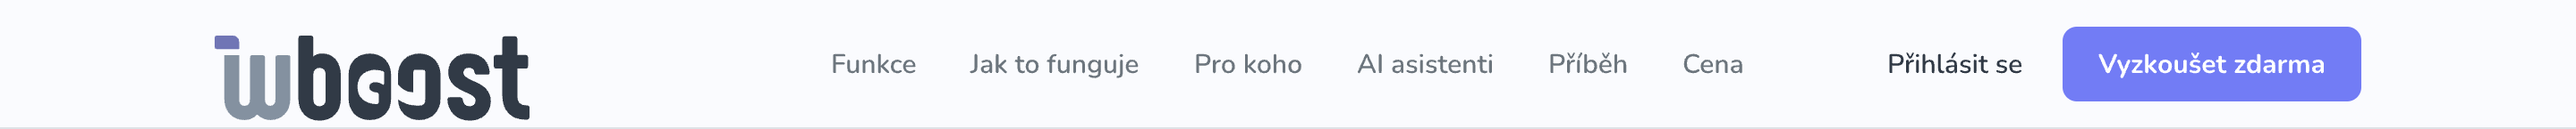
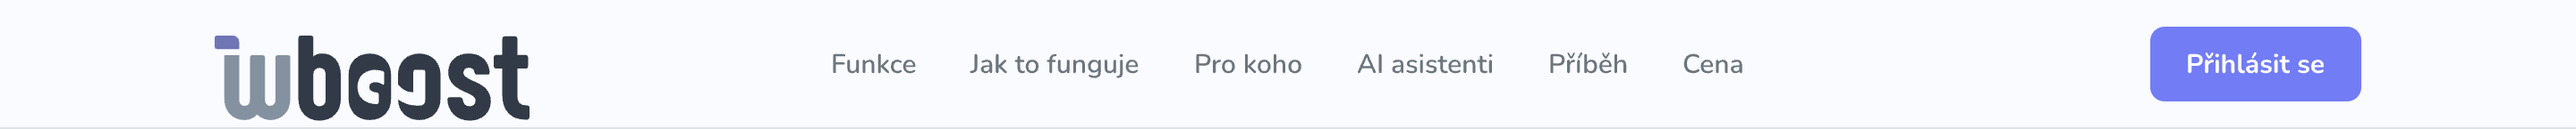
design(landing): revision round — reference section, legal pages, seven fixes
Requested after the first review:

- Header keeps only "Přihlásit se", in the primary style. The signup CTA
  still sits above the fold in the hero, so the one-CTA-per-viewport rule
  holds; two actions now share the primary style, which is the ordinary
  SaaS split and a deliberate call rather than drift.
- New Reference section (ink, between Pro koho and Příběh): three quote
  cards and a logo row, every field an explicit placeholder rather than a
  plausible fake, because the brief forbids invented testimonials. Built
  as one self-contained block and documented to ship hidden until there
  are real, approved quotes. Placing it on ink also fixed two light
  sections running back to back.
- Legal page template as a fourth and fifth artboard: nine numbered
  sections following a real Czech privacy-policy skeleton with [DOPLNIT]
  placeholders, so the founders fill prose into a structure instead of a
  blank page. Obchodní podmínky reuses the same shell.
- Timeline dropped from Příběh (it restated the copy beside it), and the
  three facts rebuilt from a caption row into a full-width stacked list
  that takes a fourth item without redesign.
- Final CTA differentiated from Cena — they read as the same section
  twice. Now centred, 78px, on the deeper ink, mostly empty: four axes of
  difference, and it delivers the brief's "almost empty around a single
  big line".
- Footer loses the dashed "Popisek" motif (inside the product it means
[…]

Changed region(s): [[0.7188, 0.1931, 0.9062, 0.8]]

diff --git a/designs/wboost-landing-notes.md b/designs/wboost-landing-notes.md
@@ -12,8 +12,10 @@ The document root holds exactly three frames, nothing else:
 | Node id | Frame | Size |
 |---|---|---|
 | `hgMNG` | **Components** | 1440 × 1600 |
-| `gCoLB` | **Desktop 1440** | 1440 × 10 960 |
-| `VZfy3` | **Mobile 390** | 390 × 15 999 |
+| `gCoLB` | **Desktop 1440** | 1440 × 11 970 |
+| `VZfy3` | **Mobile 390** | 390 × 17 255 |
+| `icEU7` | **Legal 1440** | 1440 × 2 585 |
+| `IwrPI` | **Legal 390** | 390 × 2 753 |
 
 Pencil names exported files by node id, so:
 
@@ -35,13 +37,13 @@ anything printed or zoomed.
 
 **Desktop 1440** — `u4Zjn` Nav · `n6Aw5` Hero · `zqEXF` Proof Strip · `P1Eg7` Problém ·
 `Bk0P9` Jak to funguje · `QhocG` Showcase · `bUQEv` Moduly (id `funkce`) ·
-`kMamX` AI asistenti (id `ai`) · `w6cZ86` Pro koho · `ykKvW` Příběh · `pDzy2` Cena ·
-`UrO4h` FAQ · `PvjiT` Final CTA · `Z3W59c` Footer
+`kMamX` AI asistenti (id `ai`) · `w6cZ86` Pro koho · **`JXdwa` Reference [SKRYTELNÉ]** ·
+`ykKvW` Příběh · `pDzy2` Cena · `UrO4h` FAQ · `PvjiT` Final CTA · `Z3W59c` Footer
 
 **Mobile 390** — `mIYAE` Nav · `t8tOB3` Hero · `Zxu2U` Proof · `D6XJwl` Problém ·
 `NxSDs` Jak to funguje · `L5YCyc` Showcase · `GxfFi` Moduly · `uNcik` AI ·
-`ejuJR` Pro koho · `xkdEQ` Příběh · `rnP46` Cena · `rbX7q` FAQ · `NMVqe` Final CTA ·
-`L7H4v` Footer
+`ejuJR` Pro koho · **`k0oMjU` Reference [SKRYTELNÉ]** · `xkdEQ` Příběh · `rnP46` Cena ·
+`rbX7q` FAQ · `NMVqe` Final CTA · `L7H4v` Footer
 
 ---
 
@@ -225,6 +227,58 @@ at 52 px tall (≥ 44 px touch target).
 
 ---
 
+## 6b. Revision round — 2026-09-03, after the first review
+
+Seven changes, all requested by Jan after seeing the first build:
+
+1. **Nav CTA swapped.** *Vyzkoušet zdarma* is gone from the header; **only *Přihlásit se*
+   remains, in the primary (indigo) style**. The signup CTA still sits above the fold in the
+   hero, so §7's "primary CTA visible without scrolling" still holds. It does soften §7's
+   "the primary button style is used only for *Vyzkoušet zdarma*" — two different actions now
+   share it. That is the conventional SaaS split (header serves people who already have an
+   account, hero serves people who do not) and it was a deliberate call, not an oversight.
+
+2. **New section: `Reference [SKRYTELNÉ]`** — desktop `JXdwa`, mobile `k0oMjU`, on ink,
+   between *Pro koho* and *Příběh*. Three testimonial cards plus a six-slot logo row. **Every
+   word in it is an explicit placeholder** ("Sem přijde citace klienta – dvě až tři věty…",
+   "Jméno Příjmení", "role · organizace") rather than a plausible-sounding fake quote, because
+   §6 forbids invented testimonials and logos. It is built as one self-contained section so it
+   can be commented out of the HTML until there is real content — hence the layer name.
+   Placing it on ink also fixed a rhythm problem: *Pro koho* (paper) → *Příběh* (warm paper)
+   were two light sections back to back.
+
+3. **Legal page templates** — new artboards `icEU7` (1440) and `IwrPI` (390). Nav, eyebrow,
+   52 px serif H1, a "Poslední aktualizace" line, hairline, perex, then **nine numbered
+   sections** with placeholder paragraphs and two bulleted lists, then the footer. The section
+   headings are a real Czech privacy-policy skeleton (Správce · Jaké údaje · Proč · Právní
+   základ · Jak dlouho · Komu předáváme · Cookies · Vaše práva · Kontakt), so the founders can
+   fill prose into a structure instead of starting from a blank page. *Obchodní podmínky*
+   reuses the identical shell with its own headings — one template, two pages.
+
+4. **Timeline removed from *Příběh*.** The 2023 / 2023–2026 / 2026 rows were restating the
+   copy beside them.
+
+5. **The three facts under the pull-quote were rebuilt.** They were three small columns under
+   2 px rules; they are now a **full-width stacked list** — mono index, 26 px serif statement,
+   and a supporting sentence — which reads as a manifesto rather than a caption row and takes
+   a fourth or fifth item without redesign. Each fact gained a second line of copy.
+
+6. **Final CTA differentiated from *Cena*.** They were both ink bands with a left-aligned
+   serif headline and buttons, and read as the same section twice. The close is now
+   **centred, 78 px (the largest type on the page), on the deeper ink `#28303a`, with a lot of
+   air** and a short indigo rule above it. Four axes of difference — alignment, scale, surface
+   and density — and it delivers §6's "let one section be almost empty around a single big
+   line". The deeper ink also lets the CTA and the footer read as one closing block.
+
+7. **Footer simplified.** The dashed `Popisek` motif around the description is gone — inside
+   the product it means "editable field", but to a first-time visitor it reads as a rendering
+   bug. The signature motif therefore now appears **twice** (hero, *Vyplnění a export* tile)
+   rather than three times; two placements still read as a system. The whole **Pro vývojáře**
+   column (Dokumentace API · AI a MCP server · GitHub) was removed, and with one link column
+   left the **Produkt** heading became noise and went too. Consequence for §11: `/api/docs` is
+   no longer linked from anywhere on the page — `/ai` still is, from the AI section's
+   *Průvodce připojením →*.
+
 ## 7. Motion hints (annotated, not animated)
 
 - On hero load the three dashed outlines fade in one by one (≈ 80 ms apart), the popover
@@ -281,10 +335,13 @@ else.
 
 From the brief:
 
-1. **Customer names and logos.** May any existing customer (the Moravian-Silesian
-   municipalities, the football club, the local companies) be named or shown? Until
-   confirmed, §5.2 carries six neutral placeholder slots captioned *"Používají obce,
-   sportovní kluby i firmy"* and no logo is invented.
+1. **Customer names, logos and testimonials.** May any existing customer (the
+   Moravian-Silesian municipalities, the football club, the local companies) be named, shown
+   or quoted? Two places wait on this: the proof strip's six placeholder slots (§5.2) and the
+   whole new **Reference** section (§6b.2) — three quote cards and a logo row, every field an
+   explicit placeholder. Nothing is invented. **The Reference section ships hidden**; reveal
+   it only when there is at least one real, approved quote. Collecting them is the ask: a name,
+   a role, an organisation and two or three sentences about what WBoost saved them.
 2. **Registration response time.** The hero, Moduly, Cena and Final CTA microcopy says
    *"Zdarma a bez platební karty. Přístup vám pošleme e-mailem."* — no speed promise.
    Confirm before adding anything like *"do 24 hodin"*.
@@ -299,8 +356,12 @@ From the brief:
 6. **Facebook / Instagram wording at launch.** The page carries a `Dokončujeme` chip on
    the module tile and in the step-3 fragment, and the FAQ answer says the integration is
    finished and in Meta review. Update both the moment review clears — or if it does not.
-7. **Privacy and terms pages do not exist.** `Ochrana osobních údajů` and `Obchodní
-   podmínky` are placeholder links in the footer. The commercial-register line belongs on
+7. **Privacy and terms pages: the design exists, the text does not.** Artboards `icEU7` /
+   `IwrPI` give a nine-section skeleton with `[DOPLNIT]` placeholders throughout; the footer
+   links point at `/ochrana-osobnich-udaju` and `/obchodni-podminky`. Someone has to write the
+   actual wording, including the "Poslední aktualizace" date, and confirm whether a separate
+   cookie policy is needed (there is no analytics or consent banner today, so probably not
+   yet). The commercial-register line belongs on
    the terms page, not the footer, and is not on the page.
 8. **No hosting, GDPR or data-location claim** is made anywhere. Do not add one without
    checking it.
@@ -333,8 +394,13 @@ Added by this build, also worth a look:
 
 - Sticky nav, accordions and the horizontal scroll strip are drawn in their resting
   states; the artboards are static.
-- All primary CTAs carry `https://wboost.cz/registration`; *Přihlásit se* carries
-  `https://wboost.cz/login`; *Dokumentace API* → `https://wboost.cz/api/docs`;
+- The **Reference** section is designed to be shipped hidden — build it, then comment it out
+  until real quotes exist. Do not fill it with invented content to "see how it looks".
+- The two legal artboards are **one template used twice**; build a single page shell and
+  swap the heading, the section list and the body copy.
+- The header now carries **only** *Přihlásit se*, in the primary style. All *Vyzkoušet
+  zdarma* buttons (hero, modules, pricing, final CTA) carry
+  `https://wboost.cz/registration`; every *Přihlásit se* carries `https://wboost.cz/login`; *Dokumentace API* → `https://wboost.cz/api/docs`;
   *AI a MCP server* → `https://wboost.cz/ai`; the footer e-mail is a `mailto:`; nav links
   are anchors to `#funkce`, `#jak-to-funguje`, `#pro-koho`, `#ai`, `#pribeh`, `#cena`.
 - The `Jídelníčky` and `Kalendáře` modules are deliberately absent, per §1.

diff --git a/docs/marketing/landing-page-implementation-prompt.md b/docs/marketing/landing-page-implementation-prompt.md
@@ -58,9 +58,10 @@ Three sources, in decreasing authority:
 |---|---|
 | `~/pencil/wboost.pen` (Pencil MCP) | Exact geometry, spacing, colours, font sizes. `Get(nodeId, {depth: N})` reads any node; `ctx.bounds` gives resolved boxes. This is the spec. |
 | `designs/exports/sections/*.png` (2×) | The visual target. One PNG per section; the id → name map is in the notes. |
-| `designs/wboost-landing-notes.md` | Every decision, the type system, the motion hints, the complete **[POTVRDIT]** list. |
+| `designs/wboost-landing-notes.md` | Every decision, the type system, the motion hints, the complete **[POTVRDIT]** list. **§6b lists the revision round — read it, it changes the nav, the footer and the final CTA.** |
 
-Frames: `hgMNG` Components · `gCoLB` Desktop 1440 · `VZfy3` Mobile 390.
+Frames: `hgMNG` Components · `gCoLB` Desktop 1440 · `VZfy3` Mobile 390 ·
+`icEU7` Legal 1440 · `IwrPI` Legal 390.
 
 **A useful trick, not a shortcut.** `Export(["<sectionId>"], "html-css", "/tmp/x.html")` from
 the Pencil MCP dumps every computed value in a section — read it to pull exact px and colour
@@ -135,6 +136,11 @@ landing/
       img/logo.svg
       img/og-cover.png
 ```
+
+The two legal pages are **one template used twice** (`icEU7` / `IwrPI`): nav, eyebrow, 52 px
+serif H1, a "Poslední aktualizace" line, hairline, perex, nine numbered sections with
+`[DOPLNIT]` placeholder paragraphs, footer. Build one page shell and swap the heading, the
+section list and the body copy. The privacy skeleton is a real Czech one — keep the headings.
 
 **This is a multi-page site, not one page.** `src/*.html` is the page set and the filesystem
 is its source of truth: `index.html` serves `/`, every other `<slug>.html` serves `/<slug>`
@@ -268,11 +274,21 @@ anchors expect. Fourteen sections in the fixed order of §5 of the design brief:
 proof strip, problém, jak to funguje, showcase, moduly (`#funkce`), AI asistenti (`#ai`),
 pro koho (`#pro-koho`), příběh (`#pribeh`), cena (`#cena`), FAQ, final CTA, footer.
 
+### 4.1b The Reference section ships hidden
+
+`JXdwa` / `k0oMjU` — three testimonial cards plus a six-slot logo row, on ink, between *Pro
+koho* and *Příběh*. **Every field is an explicit placeholder** and §6 of the design brief
+forbids invented testimonials, so: build the markup, then wrap the whole `<section>` in an
+HTML comment (or `hidden`) and leave it that way. It is one self-contained block precisely so
+this is a one-line change when real quotes arrive. Do not fill it with plausible-sounding
+fake content to "see how it looks".
+
 ### 4.2 The two things that carry the page
 
 **The signature motif** — the dashed indigo editable outline with its field tag and pencil+eye
-cluster — appears exactly three times: hero, the "Vyplnění a export" bento tile, and the
-footer. In CSS it is a plain `border: 1.5px dashed var(--lp-primary)` with a 2–3 px radius —
+cluster — appears exactly **twice**: the hero and the "Vyplnění a export" bento tile. It was
+removed from the footer in the revision round: inside the product a dashed box means "editable
+field", but to a first-time visitor it reads as a rendering bug. In CSS it is a plain `border: 1.5px dashed var(--lp-primary)` with a 2–3 px radius —
 **not** the baked dash paths Pencil had to use because it has no stroke-dash property. The tag
 is a small indigo pill absolutely positioned at the box's top-left, the cluster at its
 top-right. The hero's "Datum" box is the *active* state: solid 1.5 px border plus
@@ -432,6 +448,16 @@ Two workflow changes, both specified in full in the infra plan (§4 Phase B):
 > overwriting it would break the application's deploys. Do not run
 > `lily.srv/deploy/add-app.sh --apply` against this repo; it hard-codes the shared name.
 
+### 5.3b Nav and footer changed in the revision round
+
+- **The header carries only *Přihlásit se*, in the primary (indigo) style.** *Vyzkoušet
+  zdarma* is not in the nav. The signup CTA still sits above the fold in the hero.
+- **The footer has one link column and no column heading.** The *Pro vývojáře* column
+  (Dokumentace API · AI a MCP server · GitHub) is gone, and with a single column left the
+  *Produkt* heading went with it. Consequence for §7: `/api/docs` is no longer linked from the
+  page at all, so the link test will see only `/registration`, `/login` and `/ai`. That is
+  correct, not a regression — derive the list from the HTML, never hard-code it.
+
 ### 5.4 Favicons — the one deliberate exception
 
 The landing links `/favicon.ico` and friends root-relative. Those paths are not in the landing
@@ -455,6 +481,10 @@ mistake and produces three duplicate-title pages.
 | `/` | *WBoost — brand manuály, šablony a export pro grafiky a marketingové týmy* | `https://wboost.cz/` |
 | `/ochrana-osobnich-udaju` | *Ochrana osobních údajů — WBoost* | `https://wboost.cz/ochrana-osobnich-udaju` |
 | `/obchodni-podminky` | *Obchodní podmínky — WBoost* | `https://wboost.cz/obchodni-podminky` |
+
+The legal pages carry a real `<time>`-style "Poslední aktualizace" line. Set it to the date the
+text is actually written, not the deploy date, and do not leave `[DOPLNIT DATUM]` on a live
+page.
 
 Also on every page: `<html lang="cs">`, Open Graph + Twitter card (`og:title`,
 `og:description`, `og:url`, `og:type=website`, `og:locale=cs_CZ`, `og:image` — **absolute
